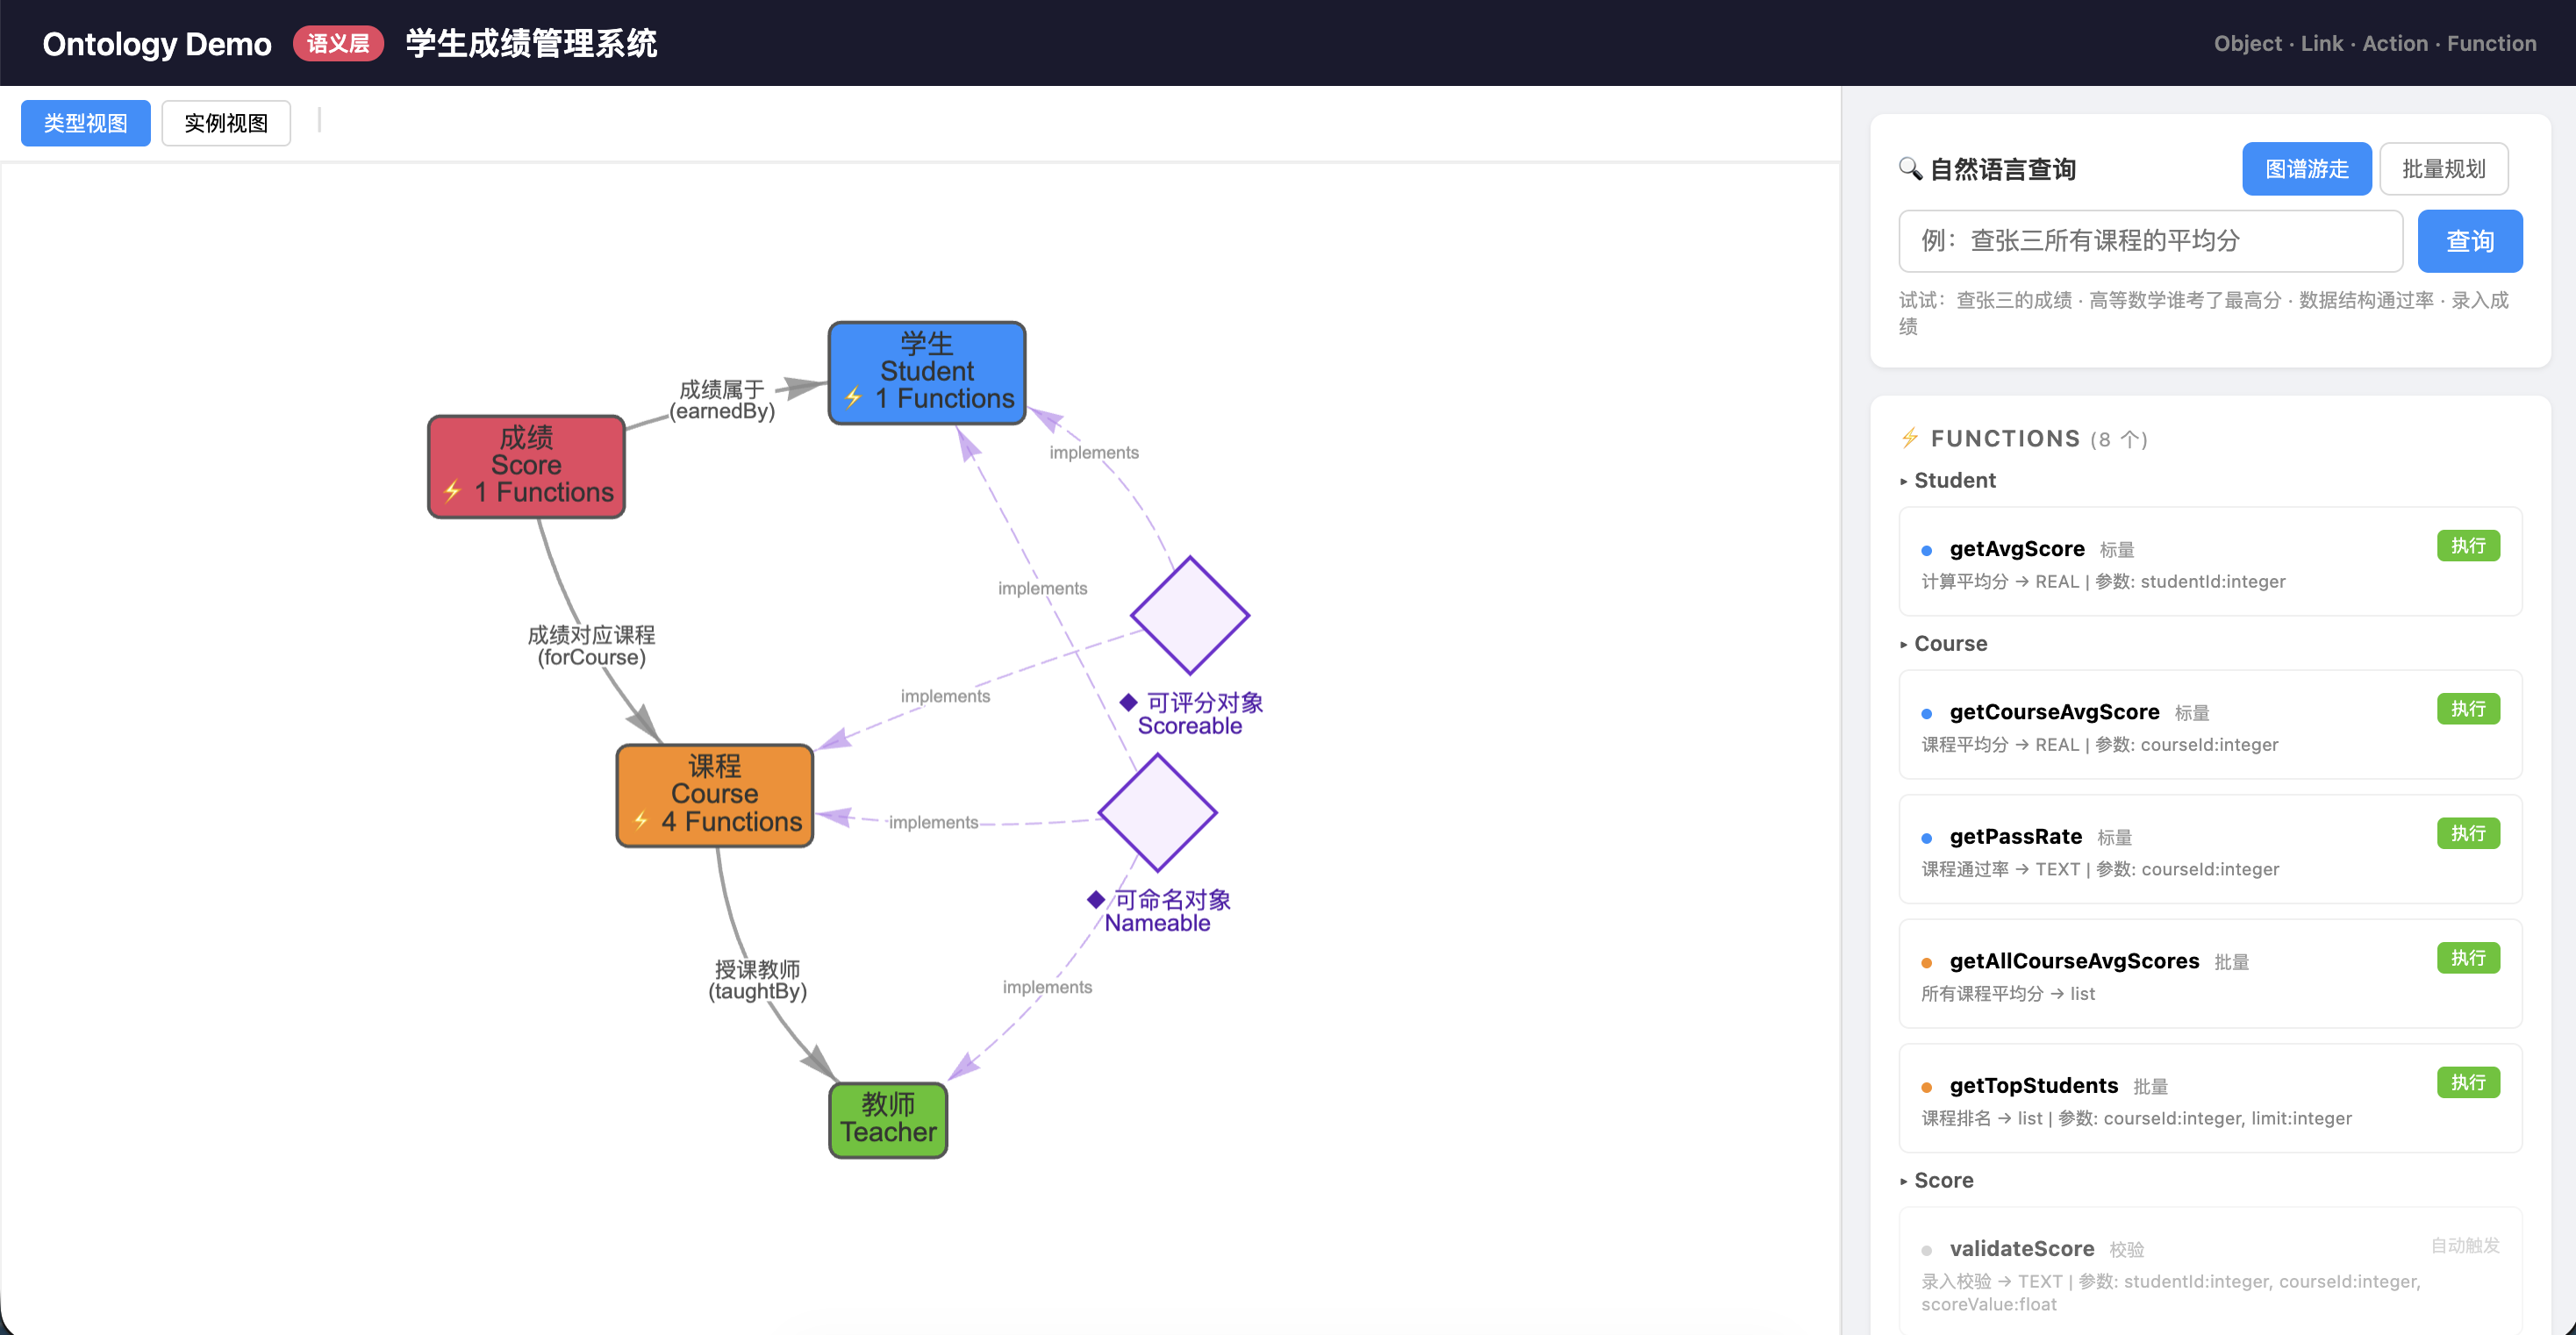
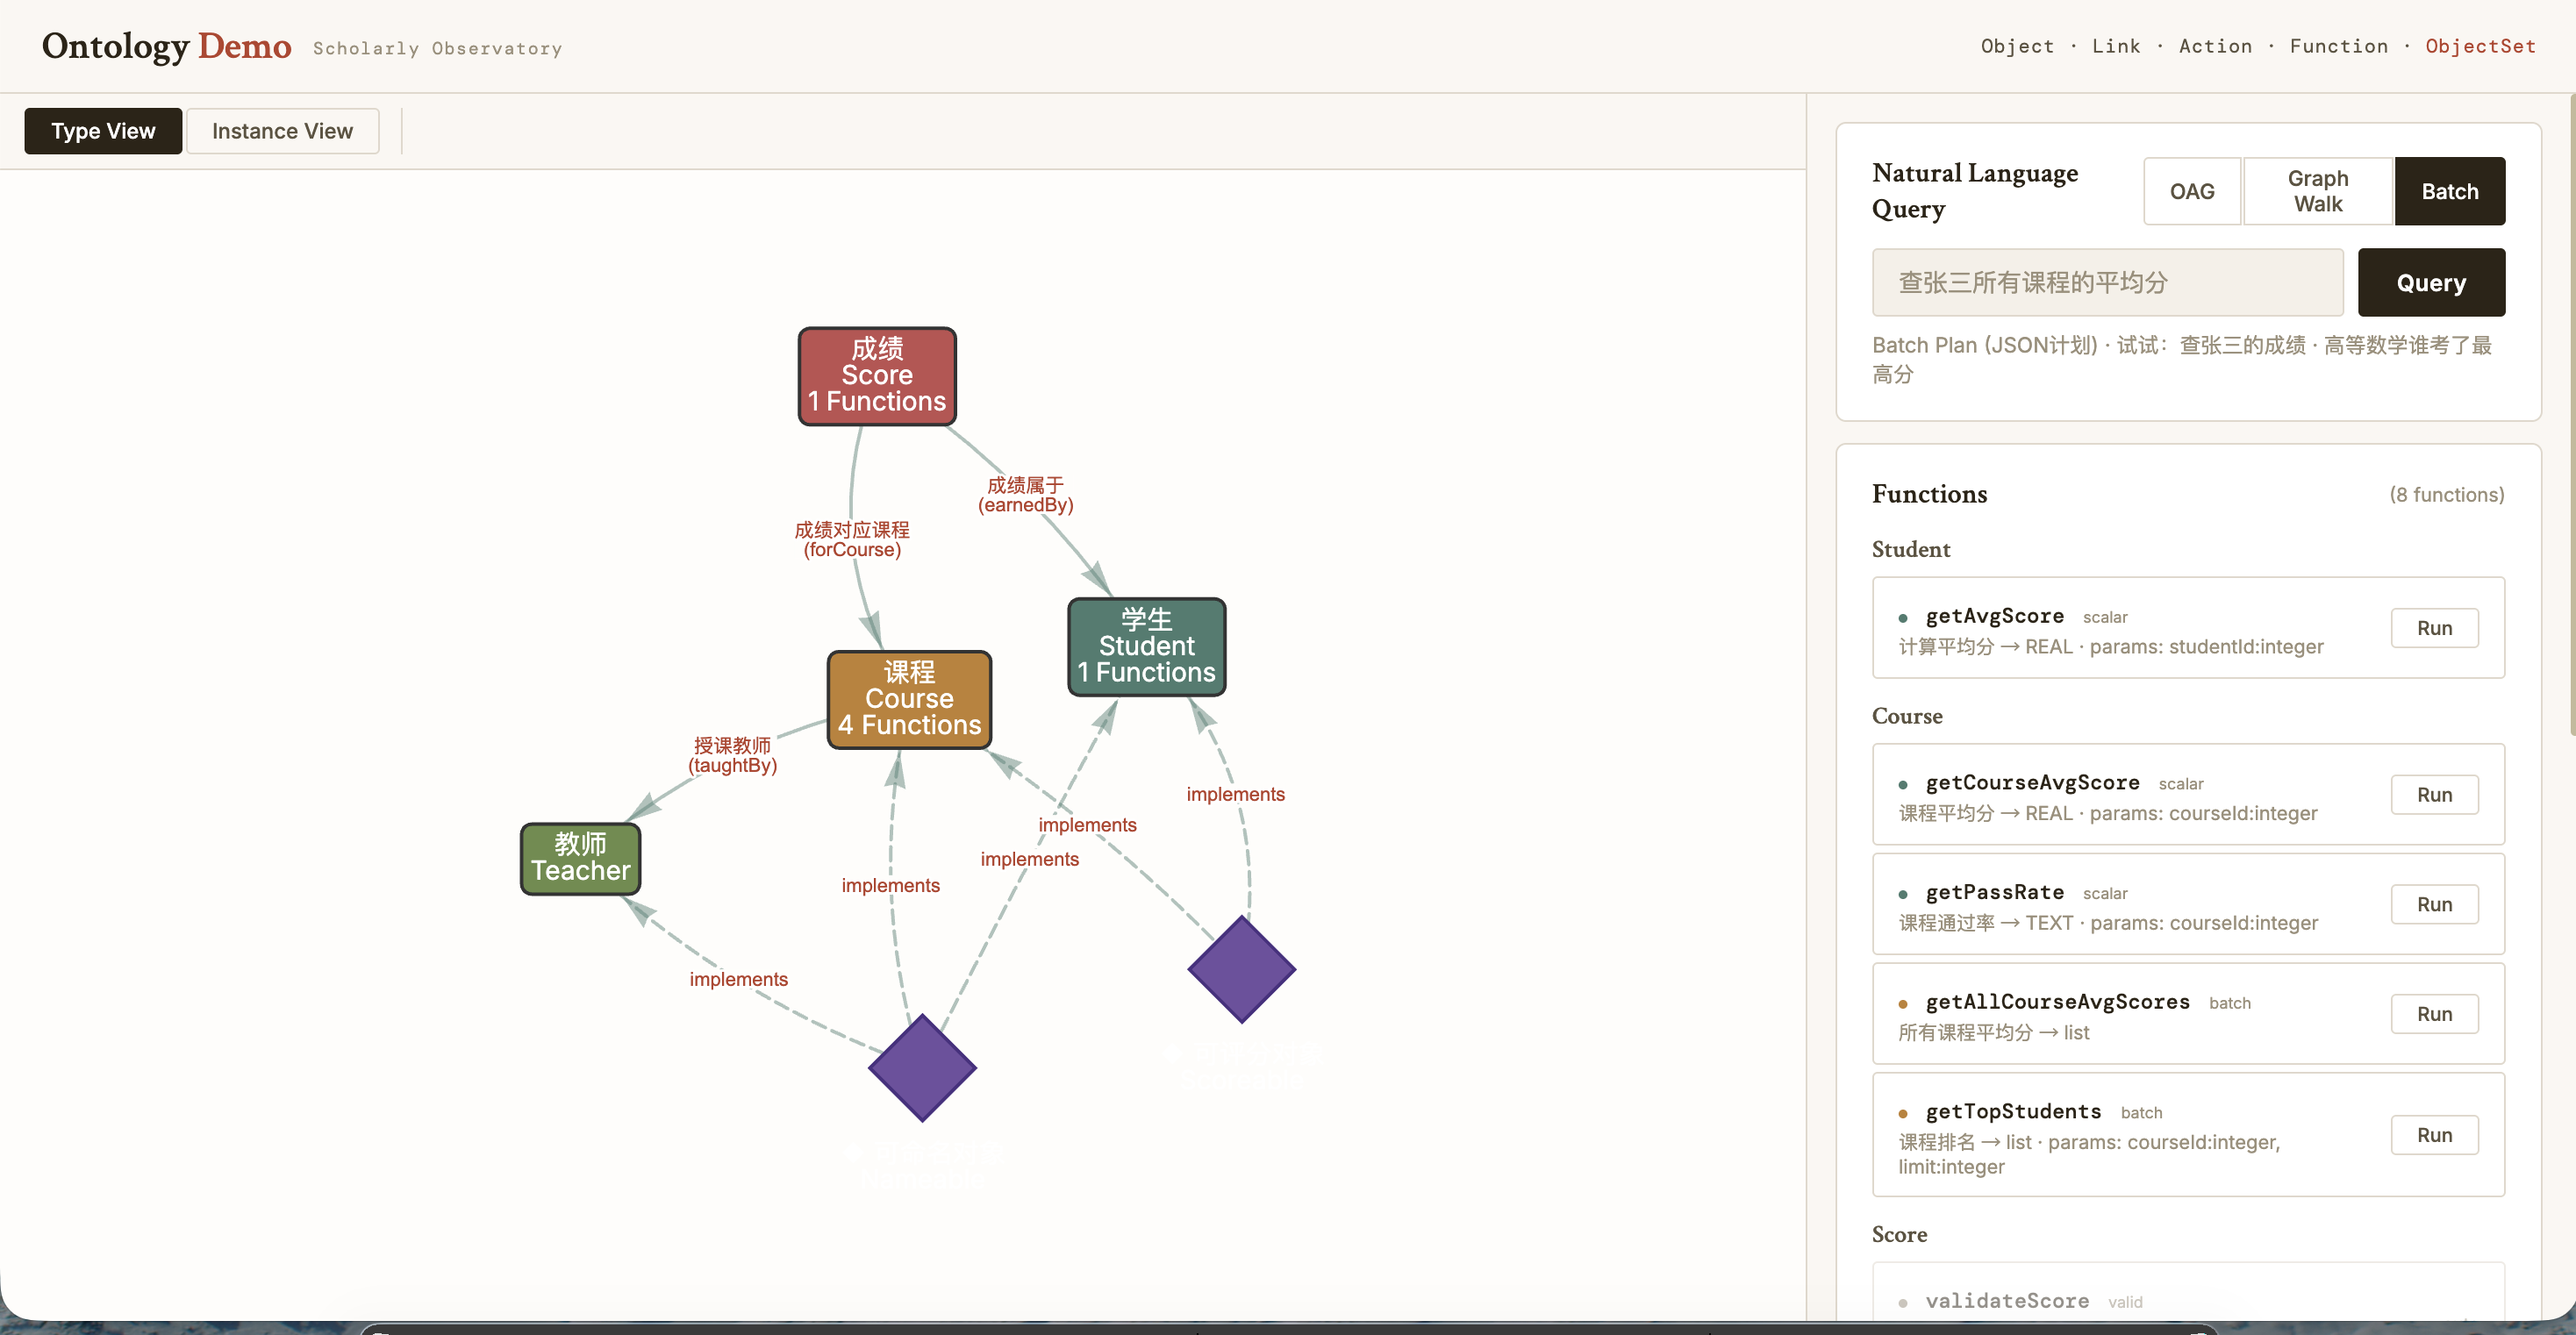
更新文档和界面，将 OAG 模式更名为 AIP Logic 模式，优化用户提示信息

diff --git a/static/index.html b/static/index.html
@@ -319,9 +319,9 @@ body {
       <div class="section-title">
         Natural Language Query
         <span class="mode-toggle">
-          <button id="btn-mode-oag" class="mode-btn active" onclick="switchNlMode('oag')">OAG</button>
+          <button id="btn-mode-oag" class="mode-btn active" onclick="switchNlMode('oag')">AIP Logic</button>
           <button id="btn-mode-graph" class="mode-btn" onclick="switchNlMode('graph')">Graph Walk</button>
-          <button id="btn-mode-batch" class="mode-btn" onclick="switchNlMode('batch')">Batch</button>
+          <button id="btn-mode-batch" class="mode-btn" onclick="switchNlMode('batch')">Batch Plan</button>
         </span>
       </div>
       <div class="nl-input-row">
@@ -627,7 +627,7 @@ function switchNlMode(mode){
   document.getElementById('explorationLog').innerHTML='';
   const input=document.getElementById('nlInput');
   const hints=document.getElementsByClassName('nl-hints')[0];
-  if(mode==='oag'){input.placeholder='张三高等数学多少分';hints.innerHTML='Ontology Augmented Generation &middot; 试试：张三高等数学多少分 &middot; 优秀学生有哪些';}
+  if(mode==='oag'){input.placeholder='张三高等数学多少分';hints.innerHTML='AIP Logic &mdash; Ontology Tool Calling (Data / Logic / Action) &middot; 试试：张三高等数学多少分 &middot; 优秀学生有哪些';}
   else if(mode==='graph'){input.placeholder='查张三所有课程的平均分';hints.innerHTML='Graph Walk (实例探索) &middot; 试试：查张三的成绩 &middot; 高等数学谁考了最高分';}
   else{input.placeholder='查张三所有课程的平均分';hints.innerHTML='Batch Plan (JSON计划) &middot; 试试：查张三的成绩 &middot; 高等数学谁考了最高分';}
 }
@@ -636,7 +636,7 @@ function renderOagExploration(log){
   const logEl=document.getElementById('explorationLog');
   logEl.style.display='block';
   if(!log||!log.length){logEl.innerHTML='<div style="color:var(--ink-muted);">No exploration steps (direct answer)</div>';return;}
-  let html='<div style="font-weight:600;margin-bottom:6px;color:var(--sage);">OAG Query Log ('+log.length+' steps)</div>';
+  let html='<div style="font-weight:600;margin-bottom:6px;color:var(--sage);">AIP Logic Tool Call Log ('+log.length+' steps)</div>';
   log.forEach((step,i)=>{
     html+=`<div class="exploration-step"><div class="step-num">${i+1}</div><div class="step-info"><div class="step-tool">${step.tool}</div><div class="step-input">${JSON.stringify(step.input)}</div><div class="step-summary">&rarr; ${step.summary}</div></div></div>`;
   });

diff --git a/README_EN.md b/README_EN.md
@@ -38,7 +38,7 @@ Ontology Semantic Layer
         ▼  Exposure (server.py)
 ┌──────────────────────────────────────────────────────────┐
 │  REST API    │  Frontend Graph │      NL Query            │
-│  CRUD endpoints │  vis.js       │  OAG Mode (recommended) │
+│  CRUD endpoints │  vis.js       │  AIP Logic Mode (recommended) │
 │  /docs       │  Force-directed │  + Graph Walk + Batch   │
 └──────────────────────────────────────────────────────────┘
 ```
@@ -76,22 +76,37 @@ All writes must go through Actions. Direct table writes are forbidden.
 
 Three NL query modes, representing different architectural approaches.
 
-### OAG Mode `POST /ontology/nl-query-oag` (Recommended)
+### AIP Logic Mode `POST /ontology/nl-query-oag` (Recommended)
 
-**Ontology Augmented Generation (OAG) Mode**: The LLM declares query intent at the object type level, and the engine automatically compiles SQL JOINs based on Link definitions. **The LLM never touches instance data or traversal logic.**
+This mode faithfully implements the core architecture of Palantir [AIP Logic](https://www.palantir.com/docs/foundry/logic/overview/): **LLM + Ontology tool calling**.
 
-This aligns with [Palantir AIP's OAG](https://www.palantir.com/docs/foundry/ontology/ontology-augmented-generation): the Ontology serves as a constraint system — the LLM only understands user intent and fills parameters, without orchestrating query execution paths.
+#### Correspondence to Official AIP Logic
 
-| Tool | Function | vs. Traditional |
-|------|----------|-----------------|
-| `query_objects` | **Core**: Cross-link dot-notation filter. e.g. `type="Score", filters={"student.name":"Zhang", "course.name":"Math"}` → engine auto-JOINs tables | Replaces multi-step search + traverse |
-| `query_object_set` | Query a predefined ObjectSet (e.g. TopStudents) | New capability |
-| `list_object_types` | List all types + ObjectSets + relationships | Added ObjectSet info |
-| `get_object_detail` | Get full object details | Takes `(type, id)` instead of `(node_key)` |
-| `call_function` | Invoke compute functions | Same |
-| `execute_action` | Execute write operations | Same |
+AIP Logic's "Use LLM" Block exposes three categories of Ontology-driven tools to the LLM ([official docs](https://www.palantir.com/docs/foundry/logic/blocks/#tools)). This project fully implements all three:
 
-**Key difference**: No `traverse` tool. Link traversal moves from the LLM's decision space into the engine's compilation space. Query results automatically include derived properties (avgScore, passRate).
+> *AIP Logic leverages three categories of Ontology-driven tools — **data, logic, and action** — to effectively query data, execute logical operations, and safely take actions.*
+> — Palantir AIP Logic Blocks documentation
+
+| Official Tool | Description | This Project's Tool | Implementation |
+|---|---|---|---|
+| **Query objects** (Data) | Object Types the LLM can access; supports property filters, Link traversal, aggregation | `query_objects` | Cross-Link dot-notation filters (e.g. `{"student.name":"Zhang"}`), engine auto-compiles SQL JOIN; derived properties included automatically |
+| **Query objects** (Data) | — | `query_object_set` | Queries predefined ObjectSets (TopStudents, PassedCourses); business logic stays in the engine, LLM just passes the name |
+| **Call function** (Logic) | Invokes Foundry Functions or published AIP Logic functions | `call_function` | Calls predefined compute functions: `getAvgScore`, `getTopStudents`, etc. |
+| **Apply actions** (Action) | LLM writes to the Ontology via Actions, executed under the invoking user's permissions | `execute_action` | Executes `createScore`, `updateScore`, etc. — validation → transaction → audit log |
+
+Additional helper tools (official platform uses UI-configured schemas; this project exposes them as runtime tools):
+
+| Tool | Purpose |
+|---|---|
+| `list_object_types` | LLM dynamically discovers Schema (Object Types, Links, ObjectSets) |
+| `get_object_detail` | Fetch full object details by `(type, id)`, including derived properties |
+
+#### Key Design Principles (Aligned with Official Docs)
+
+1. **LLM never directly accesses data**: The official docs state *"LLMs do not have direct access to tools; LLMs can only ask to use tools, and these tool calls are then executed by AIP Logic"*. In this project, LLM calls a tool → engine translates to SQL — the execution path is identical.
+2. **Link traversal handled by the engine**: The LLM doesn't need to reason about "query student first, then JOIN score" — it simply declares `{"student.name":"Zhang", "course.name":"Math"}` and the engine compiles the cross-table JOIN. This matches the Link traversal capability in AIP Logic's Object Query tool.
+3. **Derived properties computed transparently**: Results from `query_objects` and `query_object_set` automatically include `avgScore` and `passRate`. The LLM never needs to make a separate Function call. This mirrors how AIP Logic transparently injects computed results into objects.
+4. **Native Tool Calling**: This project uses Anthropic's native `tool_use` protocol, matching the official "Native tool calling" mode (*improved speed and performance, ability to call multiple tools in parallel*).
 
 ### Graph Walk Mode `POST /ontology/nl-query-graph`
 
@@ -103,7 +118,7 @@ The LLM outputs a complete JSON operation sequence. The engine executes sequenti
 
 ### Query Comparison
 
-| Query | OAG Mode (Recommended) | Graph Walk Mode |
+| Query | AIP Logic Mode (Recommended) | Graph Walk Mode |
 |-------|----------------------|-----------------|
 | "Zhang San's Advanced Math score" | **1 step**: `query_objects(Score, {student.name, course.name})` | 8 steps: search → traverse scores → traverse each to course |
 | "Who are the top students?" | **1 step**: `query_object_set("TopStudents")` | Not supported (no ObjectSet) |
@@ -147,7 +162,7 @@ The LLM outputs a complete JSON operation sequence. The engine executes sequenti
 
 | Method | Path | Description |
 |--------|------|-------------|
-| POST | `/ontology/nl-query-oag` | **OAG Mode (recommended)** — type-level query with engine-compiled JOINs |
+| POST | `/ontology/nl-query-oag` | **AIP Logic Mode (recommended)** — type-level query with engine-compiled JOINs |
 | POST | `/ontology/nl-query-graph` | Graph Walk mode — LLM agent explores instance graph |
 | POST | `/ontology/nl-query` | Batch Planning mode — LLM outputs JSON operation sequence |
 